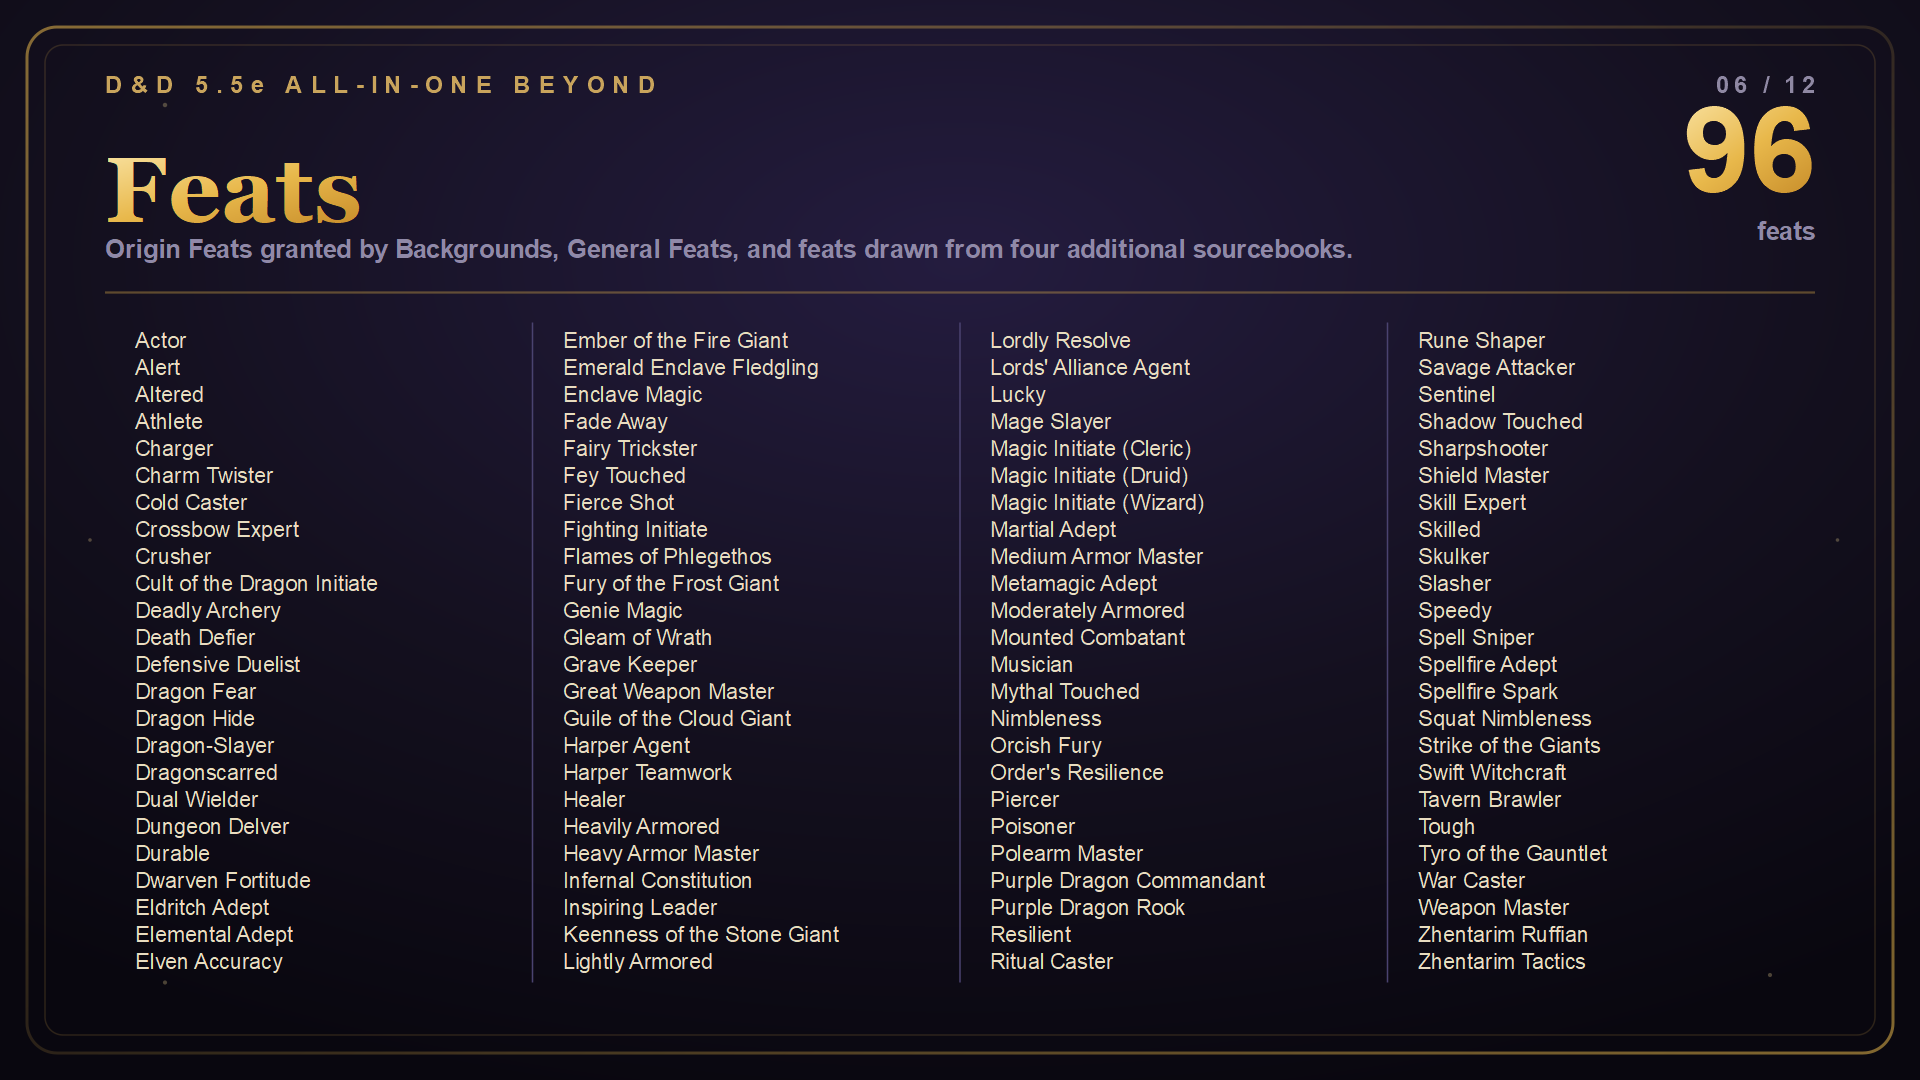
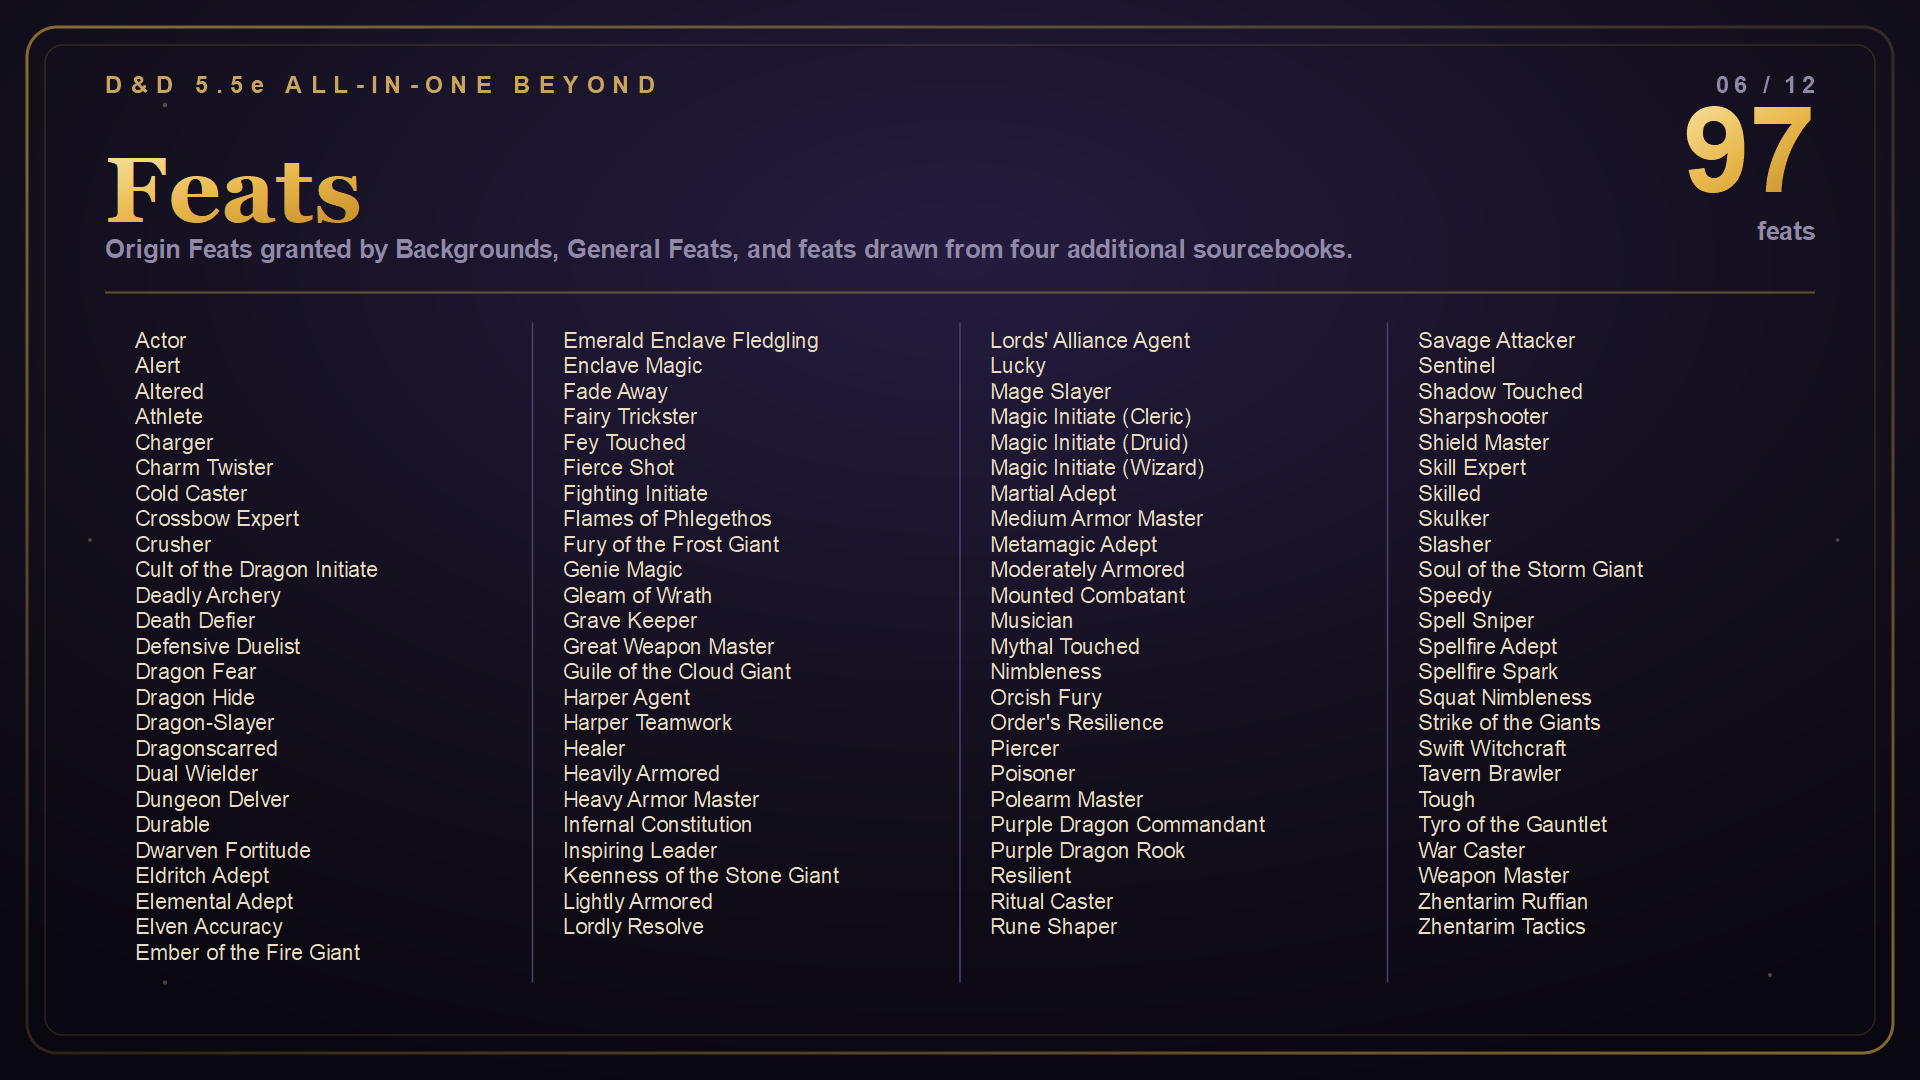
docs: list Soul of the Storm Giant in the readmes and slides
Bump the feat totals to 97 and retighten the feats slide to 25/24/24/24
rows at 17px so the extra entry stays inside the frame.

README_Modio.html was still a feat behind the other two readmes, so it
gains Keenness of the Stone Giant as well.

diff --git a/README_Modio.html b/README_Modio.html
@@ -59,7 +59,7 @@
 
 <p>See <a href="https://github.com/Yoonmoonsik/bg3dnd/wiki/Feats">Feat</a>.</p>
 
-<p>Actor, Alert, Altered, Athlete, Charger, Charm Twister, Cold Caster, Crossbow Expert, Crusher, Cult of the Dragon Initiate, Deadly Archery, Death Defier, Defensive Duelist, Dragon Fear, Dragon Hide, Dragonscarred, Dragon-Slayer, Dual Wielder, Dungeon Delver, Durable, Dwarven Fortitude, Eldritch Adept, Elemental Adept, Elven Accuracy, Emerald Enclave Fledgling, Enclave Magic, Fade Away, Fairy Trickster, Fey Touched, Fierce Shot, Fighting Initiate, Flames of Phlegethos, Genie Magic, Gleam of Wrath, Grave Keeper, Great Weapon Master, Harper Agent, Harper Teamwork, Healer, Heavily Armored, Heavy Armor Master, Infernal Constitution, Inspiring Leader, Lightly Armored, Lordly Resolve, Lords' Alliance Agent, Lucky, Mage Slayer, Magic Initiate: Cleric, Magic Initiate: Druid, Magic Initiate: Wizard, Martial Adept, Medium Armor Master, Metamagic Adept, Moderately Armored, Mounted Combatant, Musician, Mythal Touched, Nimbleness, Orcish Fury, Order's Resilience, Piercer, Poisoner, Polearm Master, Purple Dragon Commandant, Purple Dragon Rook, Resilient, Ritual Caster, Rune Shaper, Savage Attacker, Sentinel, Shadow Touched, Sharpshooter, Shield Master, Skill Expert, Skilled, Skulker, Slasher, Speedy, Spellfire Adept, Spellfire Spark, Spell Sniper, Squat Nimbleness, Swift Witchcraft, Tavern Brawler, Tough, Tyro of the Gauntlet, War Caster, Weapon Master, Zhentarim Ruffian, Zhentarim Tactics.</p>
+<p>Actor, Alert, Altered, Athlete, Charger, Charm Twister, Cold Caster, Crossbow Expert, Crusher, Cult of the Dragon Initiate, Deadly Archery, Death Defier, Defensive Duelist, Dragon Fear, Dragon Hide, Dragonscarred, Dragon-Slayer, Dual Wielder, Dungeon Delver, Durable, Dwarven Fortitude, Eldritch Adept, Elemental Adept, Elven Accuracy, Emerald Enclave Fledgling, Enclave Magic, Fade Away, Fairy Trickster, Fey Touched, Fierce Shot, Fighting Initiate, Flames of Phlegethos, Genie Magic, Gleam of Wrath, Grave Keeper, Great Weapon Master, Harper Agent, Harper Teamwork, Healer, Heavily Armored, Heavy Armor Master, Infernal Constitution, Inspiring Leader, Keenness of the Stone Giant, Lightly Armored, Lordly Resolve, Lords' Alliance Agent, Lucky, Mage Slayer, Magic Initiate: Cleric, Magic Initiate: Druid, Magic Initiate: Wizard, Martial Adept, Medium Armor Master, Metamagic Adept, Moderately Armored, Mounted Combatant, Musician, Mythal Touched, Nimbleness, Orcish Fury, Order's Resilience, Piercer, Poisoner, Polearm Master, Purple Dragon Commandant, Purple Dragon Rook, Resilient, Ritual Caster, Rune Shaper, Savage Attacker, Sentinel, Shadow Touched, Sharpshooter, Shield Master, Skill Expert, Skilled, Skulker, Slasher, Soul of the Storm Giant, Speedy, Spellfire Adept, Spellfire Spark, Spell Sniper, Squat Nimbleness, Swift Witchcraft, Tavern Brawler, Tough, Tyro of the Gauntlet, War Caster, Weapon Master, Zhentarim Ruffian, Zhentarim Tactics.</p>
 
 <h3>Fighting Styles</h3>
 

diff --git a/README.md b/README.md
@@ -71,7 +71,7 @@ See the [Wiki](https://github.com/Yoonmoonsik/bg3dnd/wiki) and each class page f
 
 See [Feat](https://github.com/Yoonmoonsik/bg3dnd/wiki/Feats).
 
-Actor, Alert, Altered, Athlete, Charger, Charm Twister, Cold Caster, Crossbow Expert, Crusher, Cult of the Dragon Initiate, Deadly Archery, Death Defier, Defensive Duelist, Dragon Fear, Dragon Hide, Dragonscarred, Dragon-Slayer, Dual Wielder, Dungeon Delver, Durable, Dwarven Fortitude, Eldritch Adept, Elemental Adept, Elven Accuracy, Ember of the Fire Giant, Emerald Enclave Fledgling, Enclave Magic, Fade Away, Fairy Trickster, Fey Touched, Fierce Shot, Fighting Initiate, Flames of Phlegethos, Fury of the Frost Giant, Genie Magic, Gleam of Wrath, Grave Keeper, Great Weapon Master, Guile of the Cloud Giant, Harper Agent, Harper Teamwork, Healer, Heavily Armored, Heavy Armor Master, Infernal Constitution, Inspiring Leader, Keenness of the Stone Giant, Lightly Armored, Lordly Resolve, Lords' Alliance Agent, Lucky, Mage Slayer, Magic Initiate: Cleric, Magic Initiate: Druid, Magic Initiate: Wizard, Martial Adept, Medium Armor Master, Metamagic Adept, Moderately Armored, Mounted Combatant, Musician, Mythal Touched, Nimbleness, Orcish Fury, Order's Resilience, Piercer, Poisoner, Polearm Master, Purple Dragon Commandant, Purple Dragon Rook, Resilient, Ritual Caster, Rune Shaper, Savage Attacker, Sentinel, Shadow Touched, Sharpshooter, Shield Master, Skill Expert, Skilled, Skulker, Slasher, Speedy, Spellfire Adept, Spellfire Spark, Spell Sniper, Squat Nimbleness, Strike of the Giants, Swift Witchcraft, Tavern Brawler, Tough, Tyro of the Gauntlet, War Caster, Weapon Master, Zhentarim Ruffian, Zhentarim Tactics.
+Actor, Alert, Altered, Athlete, Charger, Charm Twister, Cold Caster, Crossbow Expert, Crusher, Cult of the Dragon Initiate, Deadly Archery, Death Defier, Defensive Duelist, Dragon Fear, Dragon Hide, Dragonscarred, Dragon-Slayer, Dual Wielder, Dungeon Delver, Durable, Dwarven Fortitude, Eldritch Adept, Elemental Adept, Elven Accuracy, Ember of the Fire Giant, Emerald Enclave Fledgling, Enclave Magic, Fade Away, Fairy Trickster, Fey Touched, Fierce Shot, Fighting Initiate, Flames of Phlegethos, Fury of the Frost Giant, Genie Magic, Gleam of Wrath, Grave Keeper, Great Weapon Master, Guile of the Cloud Giant, Harper Agent, Harper Teamwork, Healer, Heavily Armored, Heavy Armor Master, Infernal Constitution, Inspiring Leader, Keenness of the Stone Giant, Lightly Armored, Lordly Resolve, Lords' Alliance Agent, Lucky, Mage Slayer, Magic Initiate: Cleric, Magic Initiate: Druid, Magic Initiate: Wizard, Martial Adept, Medium Armor Master, Metamagic Adept, Moderately Armored, Mounted Combatant, Musician, Mythal Touched, Nimbleness, Orcish Fury, Order's Resilience, Piercer, Poisoner, Polearm Master, Purple Dragon Commandant, Purple Dragon Rook, Resilient, Ritual Caster, Rune Shaper, Savage Attacker, Sentinel, Shadow Touched, Sharpshooter, Shield Master, Skill Expert, Skilled, Skulker, Slasher, Soul of the Storm Giant, Speedy, Spellfire Adept, Spellfire Spark, Spell Sniper, Squat Nimbleness, Strike of the Giants, Swift Witchcraft, Tavern Brawler, Tough, Tyro of the Gauntlet, War Caster, Weapon Master, Zhentarim Ruffian, Zhentarim Tactics.
 
 ### Fighting Styles
 
